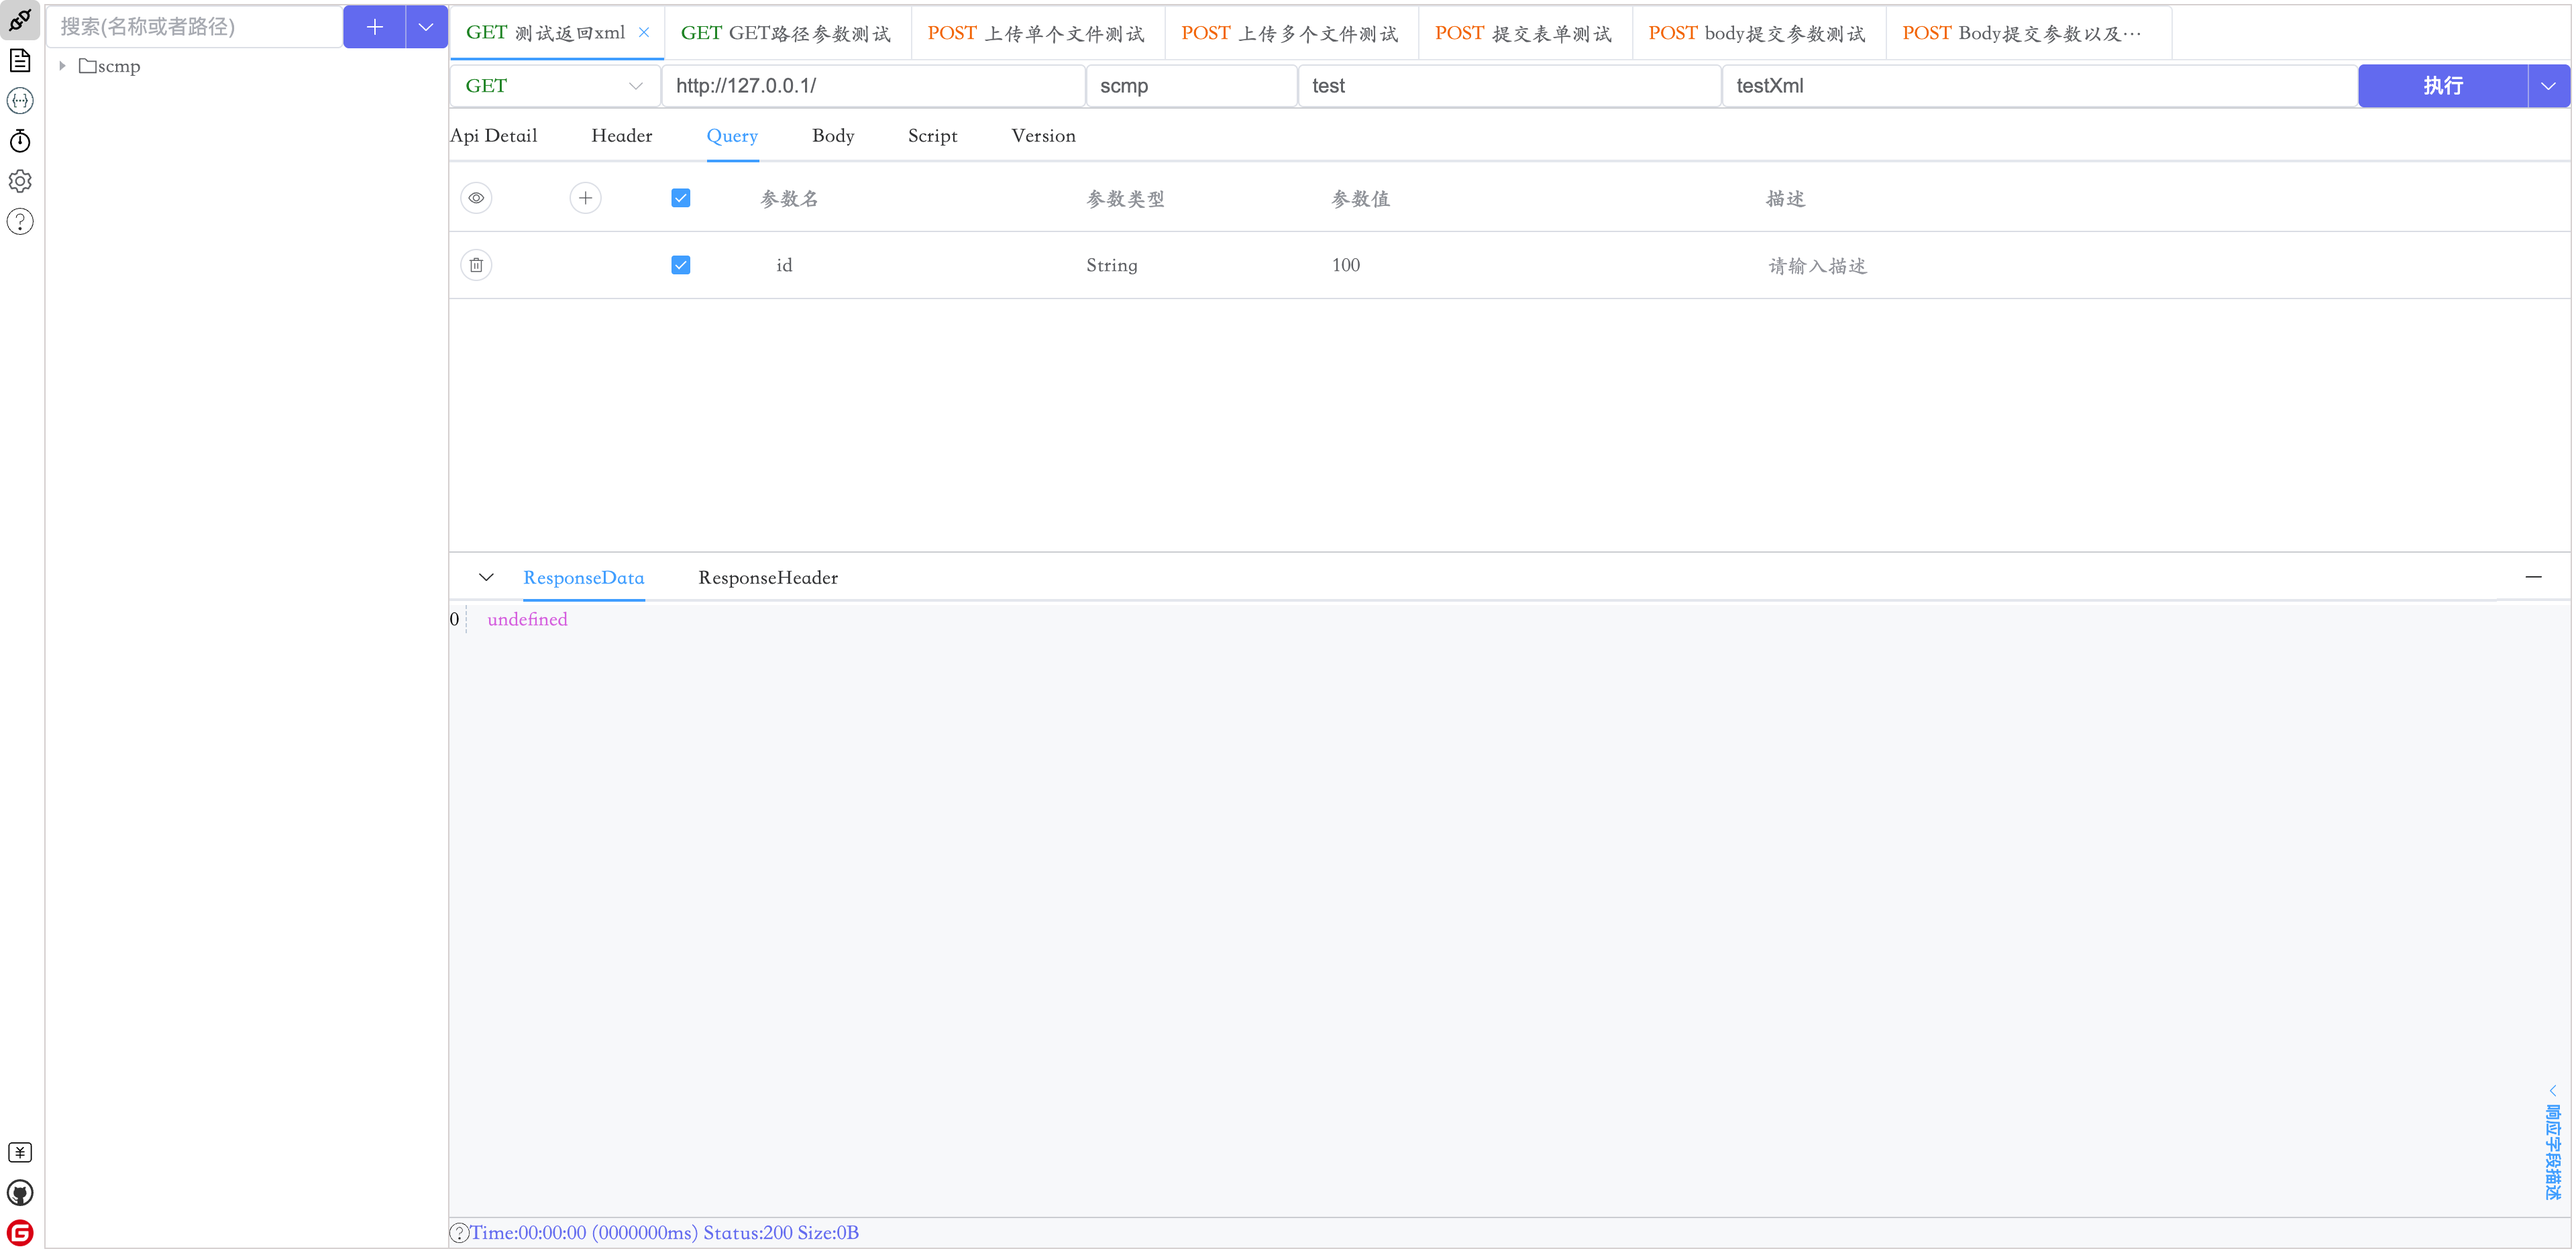
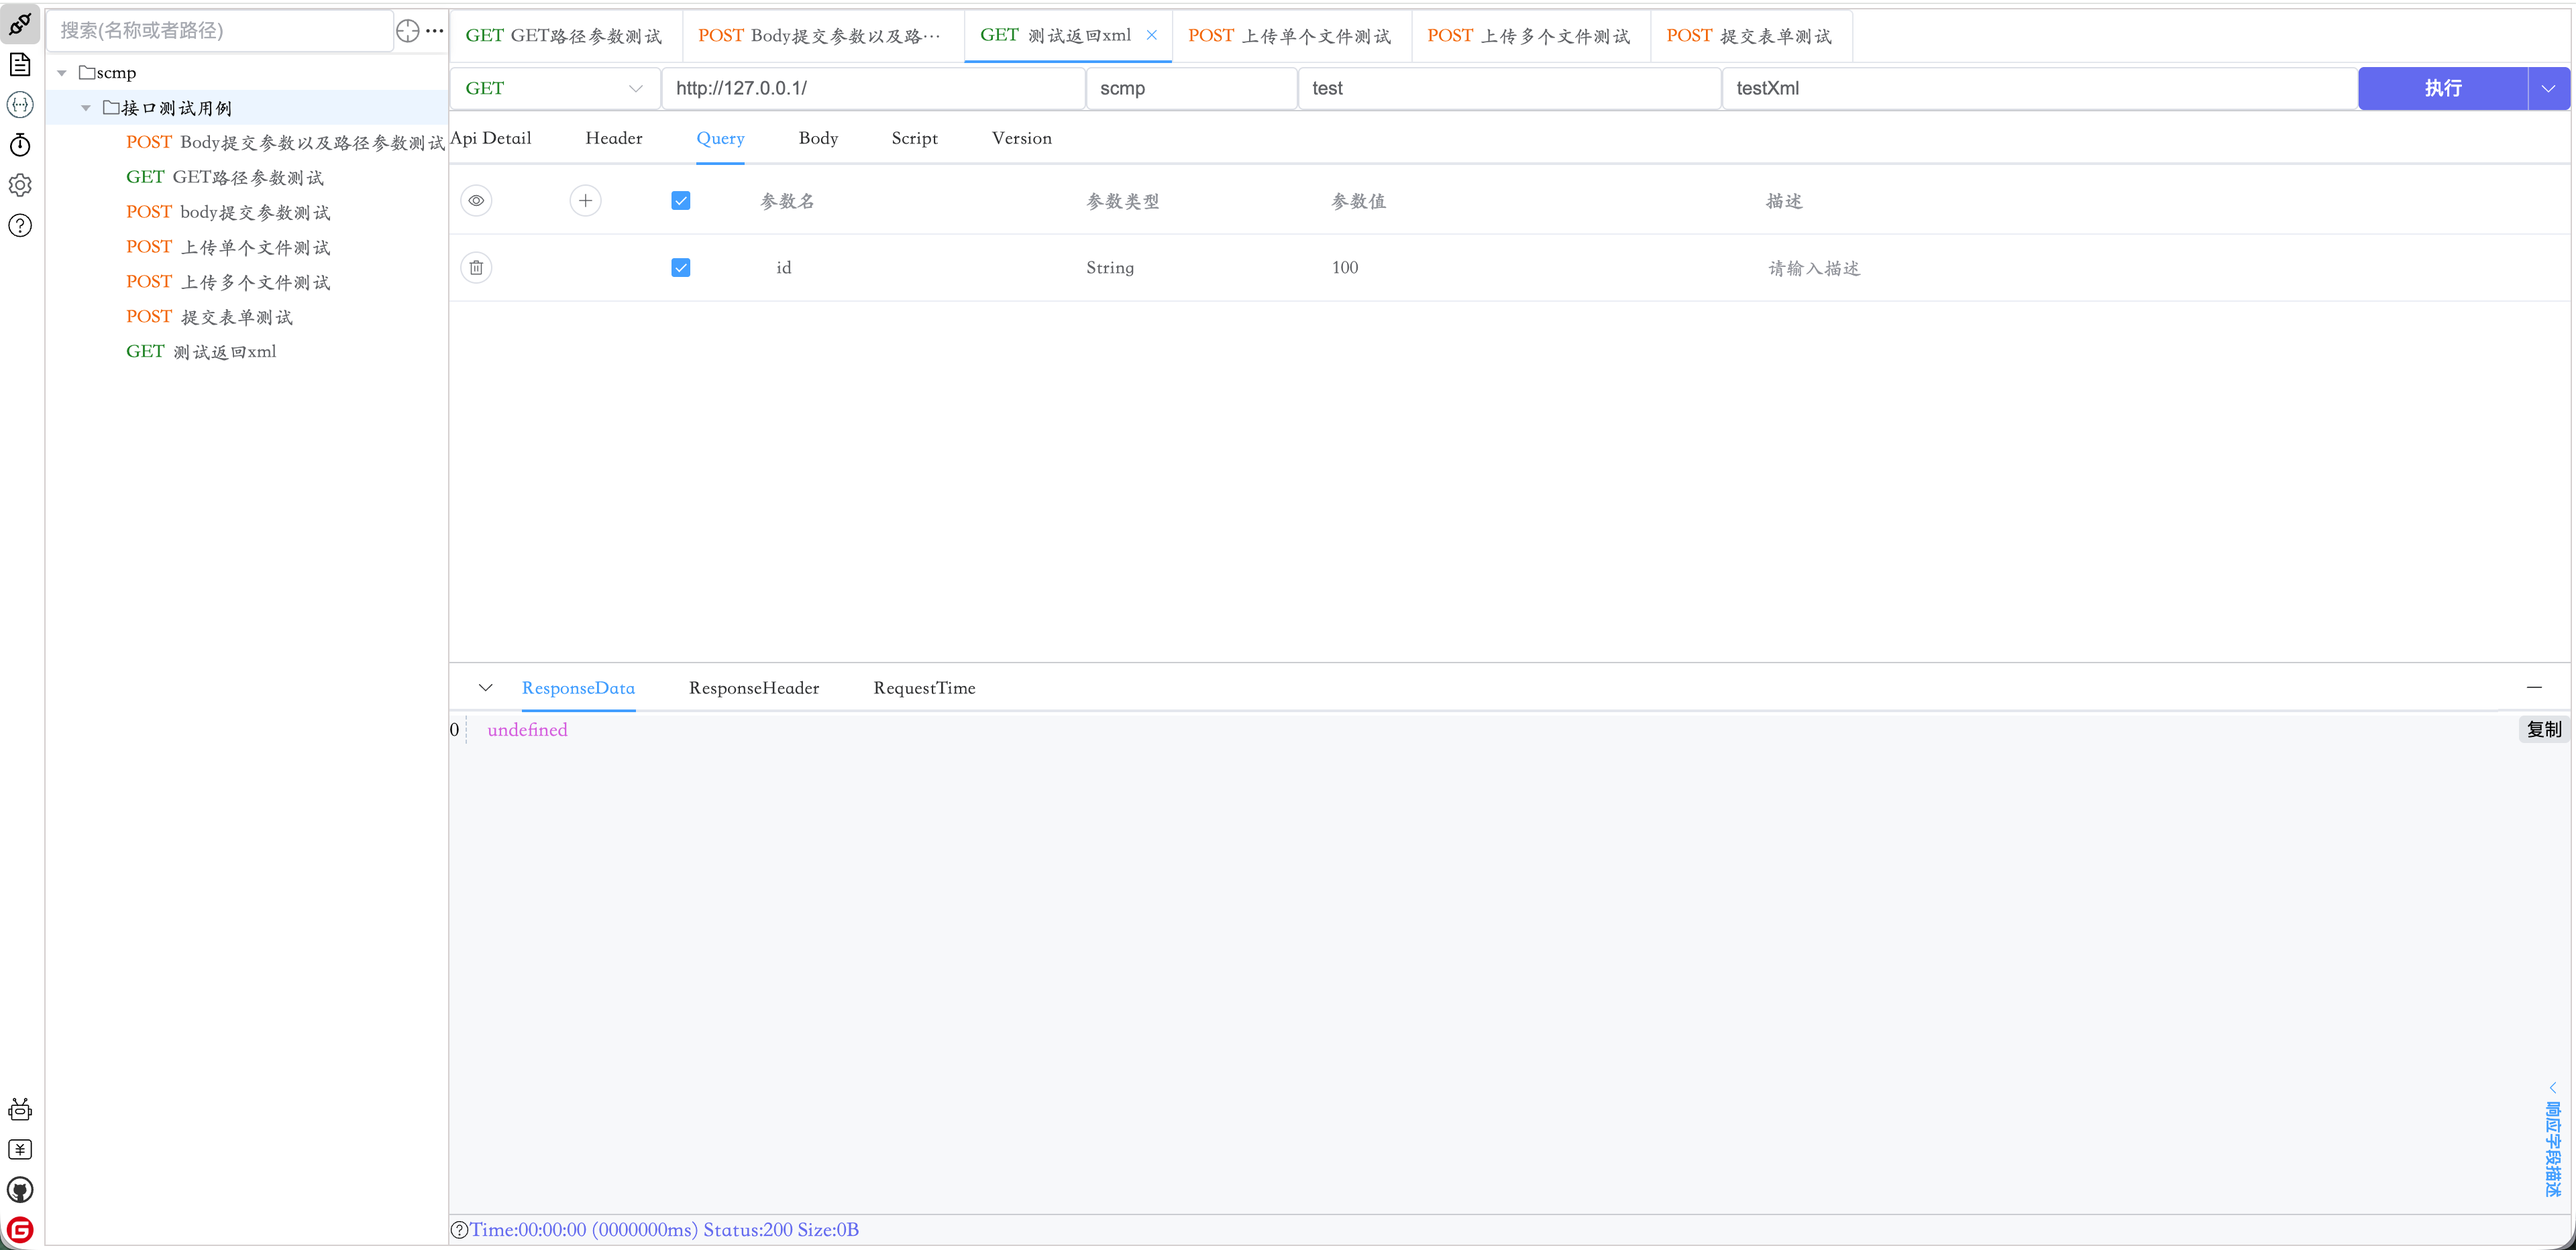
V20260228

diff --git a/README.md b/README.md
@@ -45,7 +45,8 @@ java -jar .\scmp.jar --db.type=sqlit --spring.datasource.url=jdbc:sqlite:./sqlit
 
 # 此项目也可以支持服务器部署，如有需要同我联系
 
-邮箱：17610759800@163.com qq:1270622569 微信: zfs1270622569
+> 当前提供的所有代码,也可以在服务器布局,使用的数据库是sqlit.同时也支持mysql8数据,需要的同我联系
+> 邮箱：17610759800@163.com qq:1270622569 微信: zfs1270622569
 
 ## 访问
 
